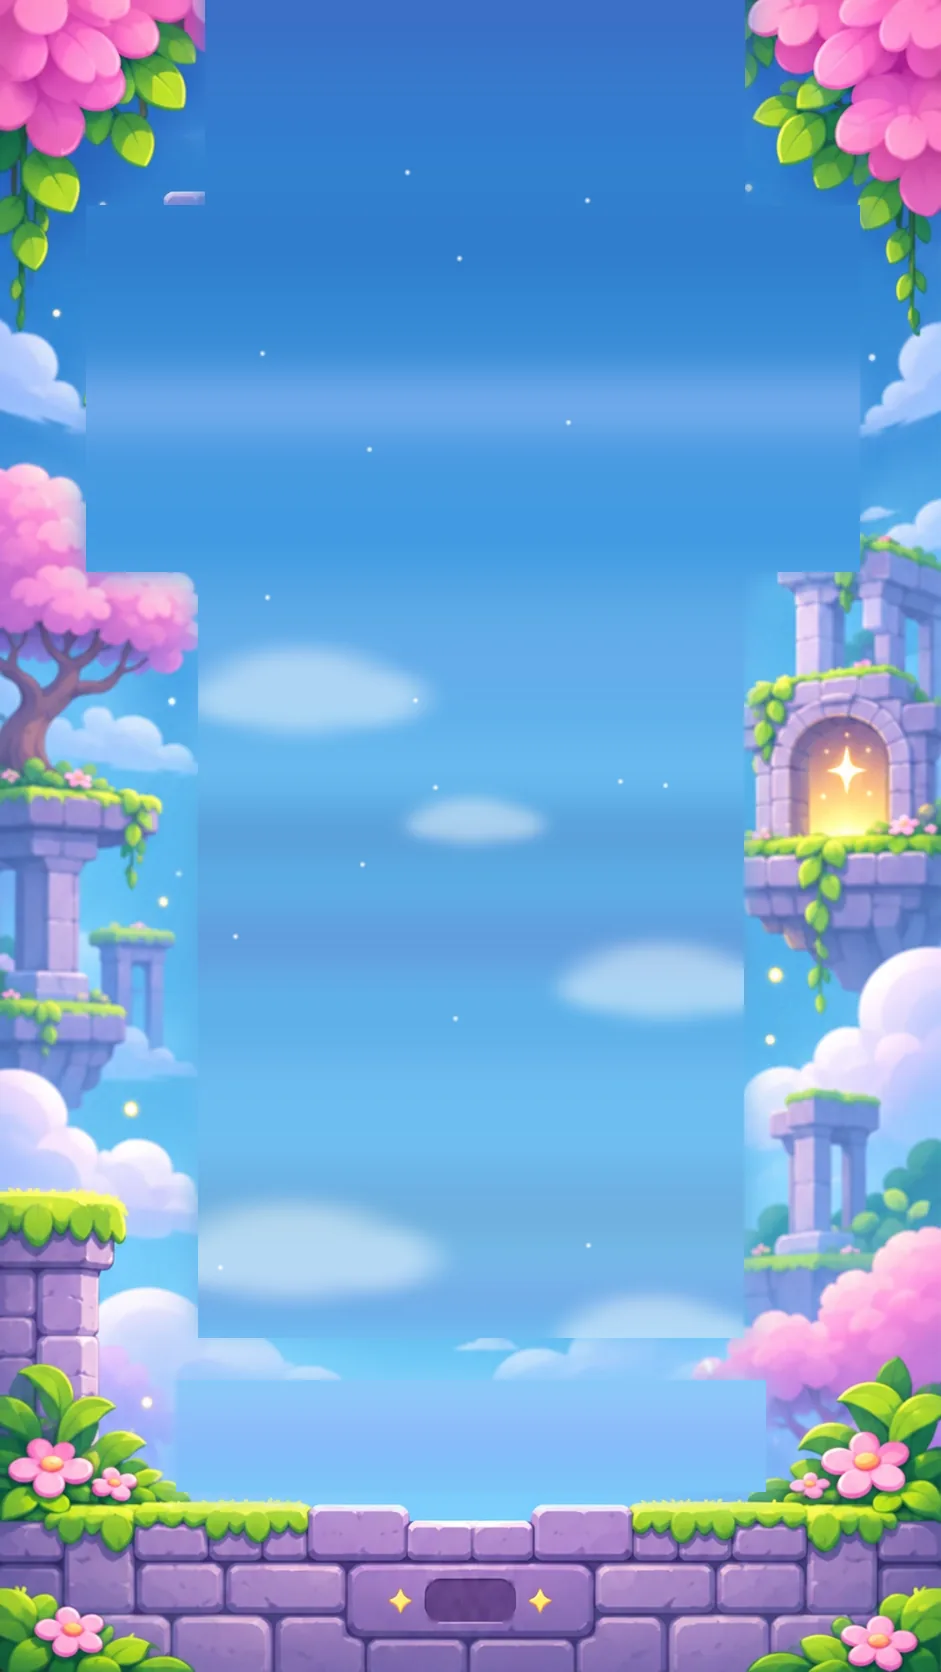
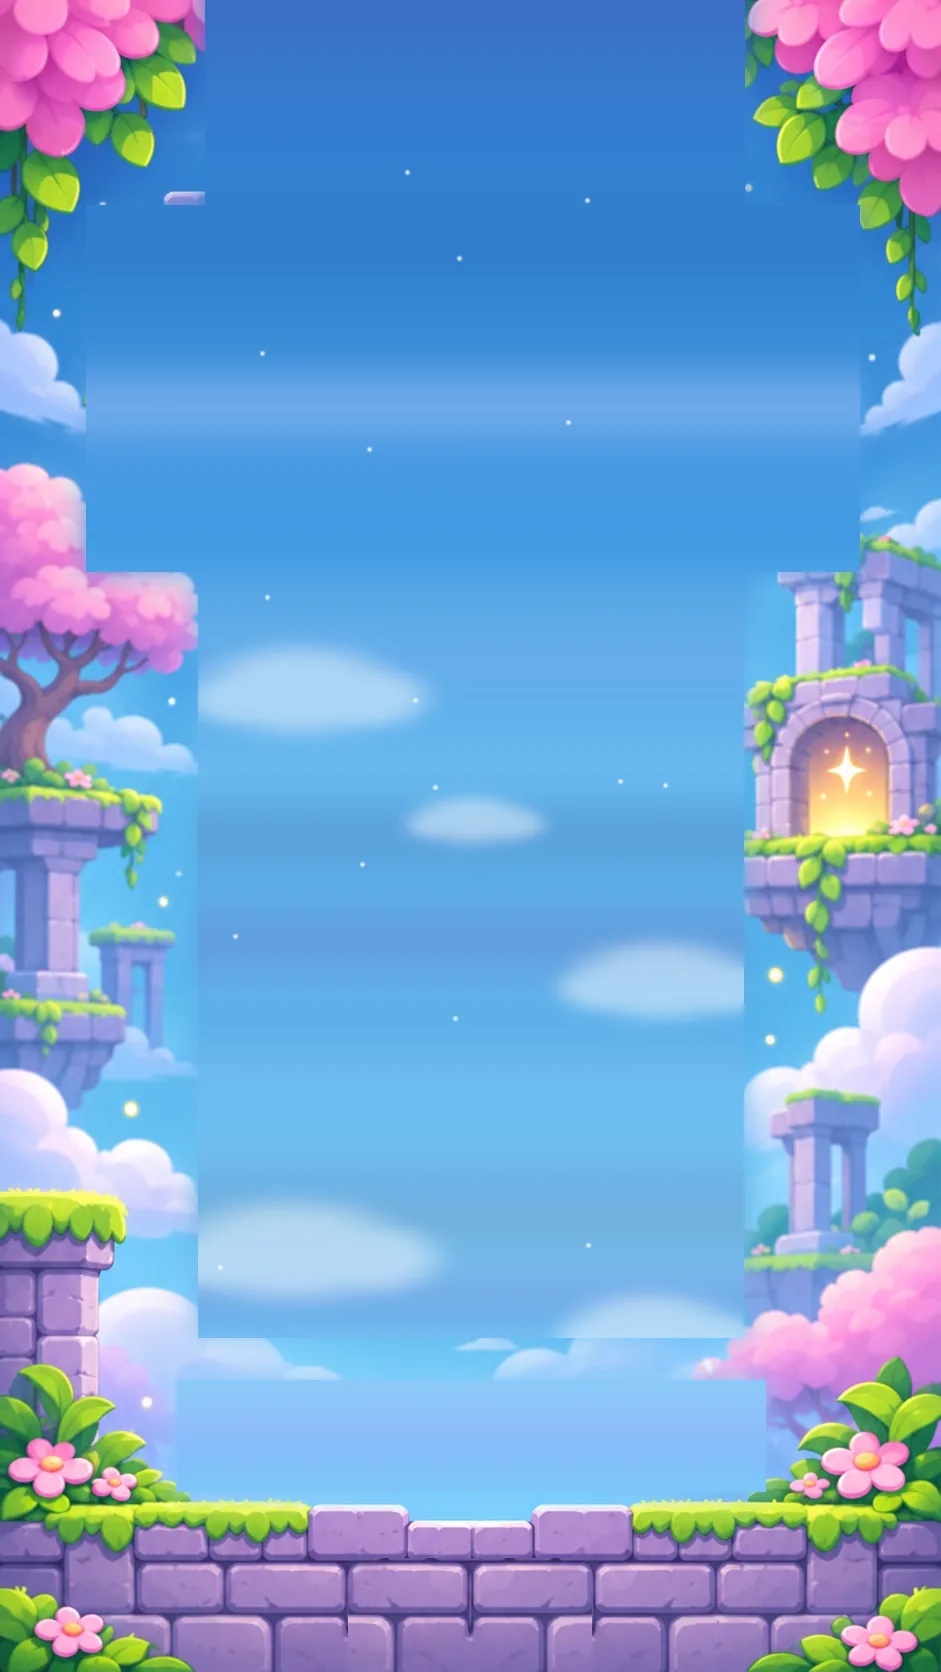
Demo website from a8b560e

Changed region(s): [[0.3698, 0.933, 0.6472, 1.0]]

diff --git a/index.html b/index.html
@@ -523,10 +523,7 @@ function buildStatic() {
     g.restore();
     const tile = (x, y) => x >= 0 && y >= 0 && x < L.w && y < L.h ? L.tiles[y * L.w + x] : 1;
     const open = (x, y) => tile(x, y) !== 1;
-    const busy = new Set();                      // tiles that hold a pad or a door: no grass or leaves next to them
-    for (const pl of L.plates) busy.add(pl.y * L.w + pl.x);
-    for (const d of L.doors) for (const cell of d.cells) busy.add(cell.y * L.w + cell.x);
-    const plain = (x, y) => tile(x, y) === 0 && !busy.has(y * L.w + x);
+    const plain = (x, y) => tile(x, y) === 0;     // grass wherever the wall meets open air, pads and doors too, so it runs on unbroken
     g.translate(ox, oy);
     for (let y = 0; y < L.h; y++) for (let x = 0; x < L.w; x++) if (tile(x, y) === 1)
       A.wall(g, x * TS, y * TS, TS, { tx: x, ty: y, up: open(x, y - 1), down: open(x, y + 1), left: open(x - 1, y), right: open(x + 1, y),
@@ -1119,10 +1116,7 @@ function drawScene(g, L, w, h, look = {}) {
   g.restore();
   const tile = (x, y) => x >= 0 && y >= 0 && x < L.w && y < L.h ? L.tiles[y * L.w + x] : 1;
   const open = (x, y) => tile(x, y) !== 1;
-  const busy = new Set();
-  for (const pl of L.plates) busy.add(pl.y * L.w + pl.x);
-  for (const d of L.doors) for (const c of d.cells) busy.add(c.y * L.w + c.x);
-  const plain = (x, y) => tile(x, y) === 0 && !busy.has(y * L.w + x);
+  const plain = (x, y) => tile(x, y) === 0;
   g.save(); g.translate(ox, oy);
   for (let y = 0; y < L.h; y++) for (let x = 0; x < L.w; x++) {
     const t = tile(x, y);

diff --git a/editor.html b/editor.html
@@ -309,7 +309,7 @@ function draw() {
   ctx.stroke();
   const at = (x, y) => (x < 0 || y < 0 || x >= w || y >= h) ? '#' : E.map[y][x];
   // walls, as in the game: outlined where they meet open space, grass on top and leaves underneath
-  const open = (x, y) => at(x, y) !== '#', plain = (x, y) => ' 12XYKW'.includes(at(x, y));
+  const open = (x, y) => at(x, y) !== '#', plain = (x, y) => ' 12XYKWabcdABCD'.includes(at(x, y));   // grass under pads and by doors too
   for (let y = 0; y < h; y++) for (let x = 0; x < w; x++) if (at(x, y) === '#')
     A.wall(ctx, x * ts, y * ts, ts, { tx: x, ty: y, dim: isEdge(x, y), up: open(x, y - 1), down: open(x, y + 1), left: open(x - 1, y), right: open(x + 1, y),
                                       grass: plain(x, y - 1), vines: plain(x, y + 1) });

diff --git a/menu.css b/menu.css
@@ -71,8 +71,6 @@
 .round.sound.off::after { content: ""; position: absolute; left: 22%; right: 22%; top: 47%; height: calc(9 * var(--k)); border-radius: 4px; background: #d24a6a; transform: rotate(-40deg); box-shadow: 0 0 0 calc(3 * var(--k)) #fff6ec; }
 .round:active { transform: scale(0.94); }
 
-.version { position: absolute; left: 50%; bottom: calc(env(safe-area-inset-bottom, 0px) + 72 * var(--s)); transform: translate(-50%, 50%);
-  color: #f4eafe; font-weight: 600; font-size: calc(30 * var(--s)); text-shadow: 0 1px 2px rgba(30, 15, 50, 0.6); pointer-events: none; }
 
 /* ---- levels: seven cards a page (3, 3, 1), the pictures from the design ---- */
 .pages { position: relative; flex: 0 0 auto; width: 100%; overflow: hidden; touch-action: pan-y; }

diff --git a/menu.js b/menu.js
@@ -51,7 +51,6 @@
         <button class="pill" data-go="full" hidden>${svg('star')}<span>Full game</span></button>
         <button class="pill" data-quit hidden>${svg('quit')}<span>Quit</span></button>
       </div>
-      <div class="version">${VERSION}</div>
     </section>`);
     scr.levels = el(`<section class="screen" data-screen="levels" aria-label="Select level">
       <button class="round l back" data-back aria-label="Back"></button>
